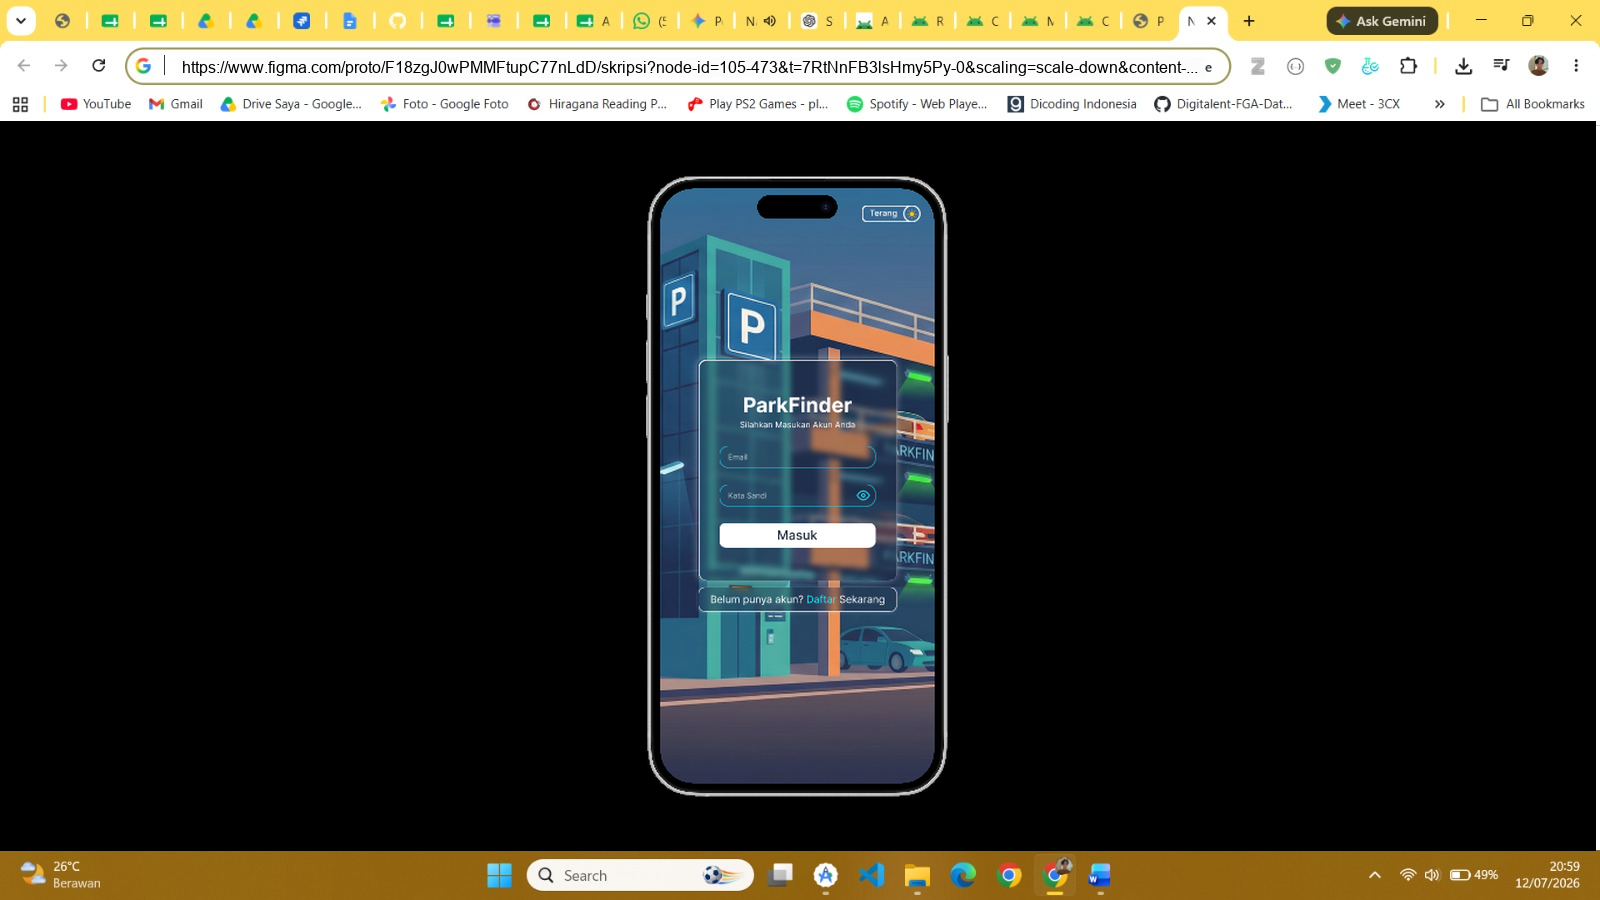
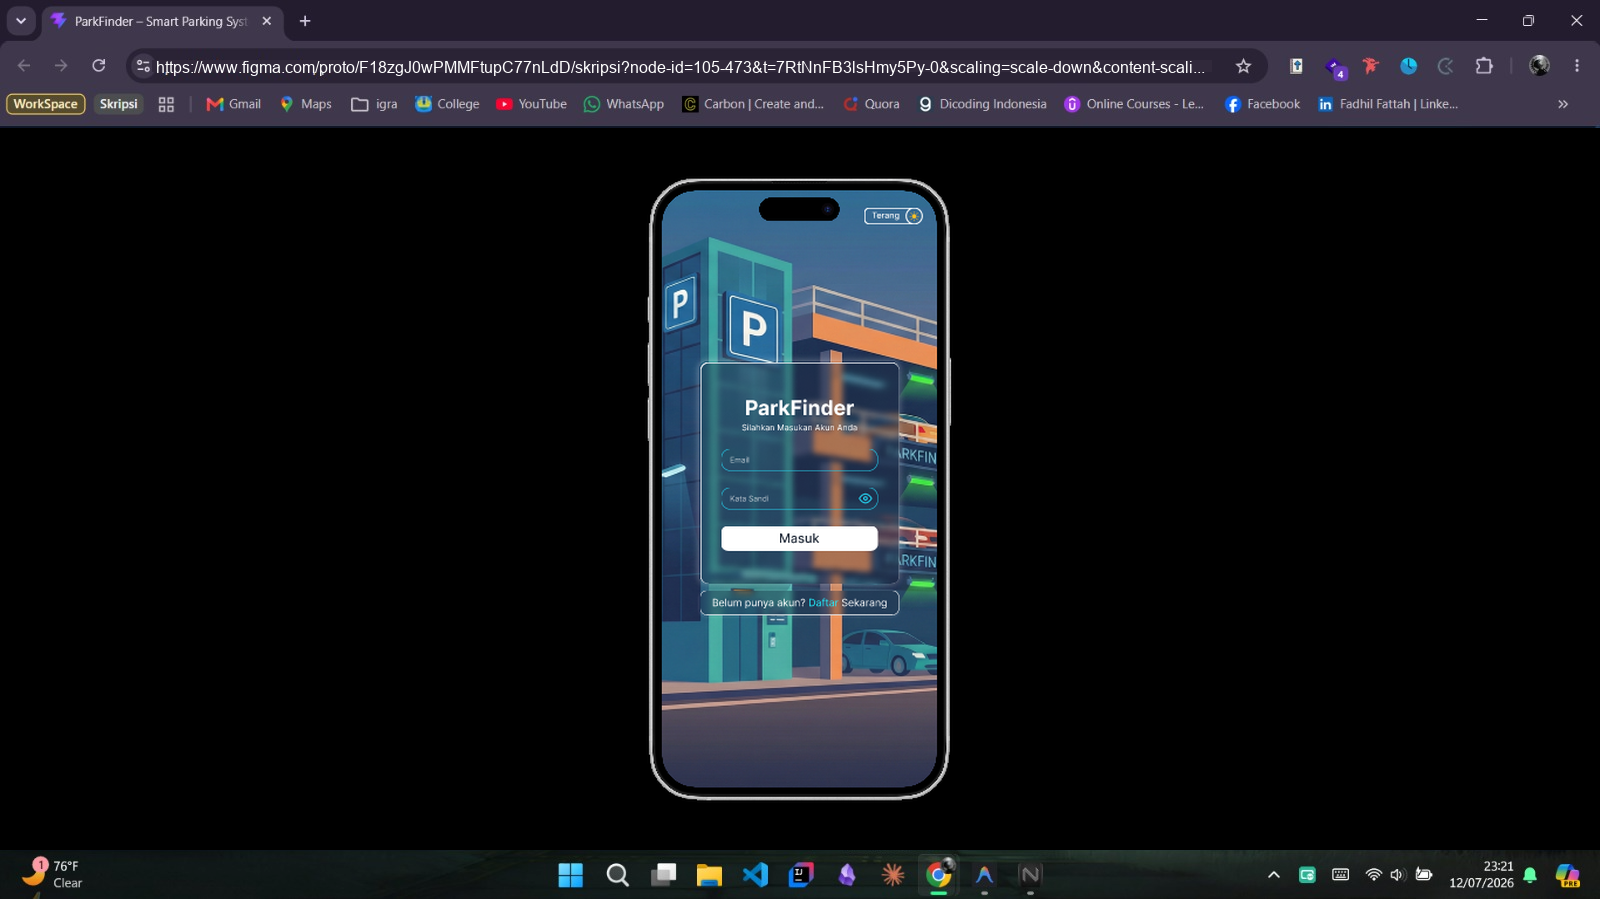
add title website

Changed region(s): [[0.0, 0.0, 1.0, 0.1557], [0.4062, 0.1869, 0.5938, 0.9032], [0.0, 0.9344, 1.0, 1.0]]

diff --git a/browser_frame/image_utils.py b/browser_frame/image_utils.py
@@ -124,6 +124,30 @@ def _contrast_text_color(background_hex: str) -> str:
     return "#000000" if luminance >= 160 else "#ffffff"
 
 
+def render_website_title_on_base(base: Image.Image, title: str) -> Image.Image:
+    if not title.strip():
+        return base.copy()
+    canvas = base.copy()
+    draw = ImageDraw.Draw(canvas)
+    title_region = Region(58, 2, 360, 32)
+    font = load_font(14)
+    text = title.strip()
+    bbox = draw.textbbox((0, 0), text, font=font)
+    text_width = bbox[2] - bbox[0]
+    text_height = bbox[3] - bbox[1]
+    max_width = max(1, title_region.width - 16)
+    text = truncate_text(text, font, max_width)
+    bbox = draw.textbbox((0, 0), text, font=font)
+    text_width = bbox[2] - bbox[0]
+    text_height = bbox[3] - bbox[1]
+    fill_color = _sample_address_bar_background(base, title_region)
+    draw.rectangle((title_region.x, title_region.y, title_region.x + title_region.width, title_region.y + title_region.height), fill=fill_color)
+    text_x = title_region.x + 6
+    text_y = title_region.y + max(0, (title_region.height - text_height) // 2 - 1)
+    draw.text((text_x, text_y), text, font=font, fill=_contrast_text_color(fill_color))
+    return canvas
+
+
 def render_url_on_base(base: Image.Image, address_bar: Region, url: str, text_settings: TextSettings) -> Image.Image:
     canvas = base.copy()
     draw = ImageDraw.Draw(canvas)
@@ -151,11 +175,13 @@ def composite_template(
     address_bar: Region,
     screenshot: Image.Image,
     url: str,
+    website_title: str,
     text_settings: TextSettings,
     contain_background: str,
     fit_mode: FitMode,
 ) -> Image.Image:
     base = template.copy().convert("RGBA")
+    base = render_website_title_on_base(base, website_title)
     fitted = fit_image(screenshot.convert("RGBA"), (viewport.width, viewport.height), fit_mode, contain_background)
     base.alpha_composite(fitted, (viewport.x, viewport.y))
     return render_url_on_base(base, address_bar, url, text_settings)

diff --git a/browser_frame/region_editor.py b/browser_frame/region_editor.py
@@ -51,6 +51,7 @@ class RegionEditorApp:
         self.zoom_var = StringVar(value="100%")
         self.template_info_var = StringVar(value="Template: none | Resolution: -")
         self.status_var = StringVar(value="Open a template to begin.")
+        self.website_title_var = StringVar(value=self.settings.website_title)
 
         self._build_ui()
         self._load_persisted_template_path()
@@ -129,6 +130,10 @@ class RegionEditorApp:
 
         actions = ttk.LabelFrame(sidebar, text="Actions")
         actions.pack(fill=X, padx=2, pady=6)
+        title_box = ttk.LabelFrame(sidebar, text="Website Title")
+        title_box.pack(fill=X, padx=2, pady=6)
+        ttk.Entry(title_box, textvariable=self.website_title_var).pack(fill=X, padx=8, pady=(8, 4))
+        ttk.Button(title_box, text="Apply Title", command=self.apply_title).pack(fill=X, padx=8, pady=(0, 8))
         ttk.Button(actions, text="Open Template", command=self.open_template_dialog).pack(fill=X, padx=8, pady=(8, 4))
         ttk.Button(actions, text="Preview Result", command=self.preview_result).pack(fill=X, padx=8, pady=4)
         ttk.Button(actions, text="Confirm Regions", command=self.confirm_regions).pack(fill=X, padx=8, pady=4)
@@ -145,10 +150,17 @@ class RegionEditorApp:
 
     def _load_persisted_template_path(self) -> None:
         profile = self.settings.profile(self.device)
+        self.website_title_var.set(self.settings.website_title)
         if profile.template_path and Path(profile.template_path).exists():
             self.load_template(Path(profile.template_path))
         elif self.template_path and self.template_path.exists():
             self.load_template(self.template_path)
+
+    def apply_title(self) -> None:
+        self.settings.website_title = self.website_title_var.get().strip()
+        self._persist_settings()
+        self.redraw()
+        self.status_var.set("Website title updated")
 
     def open_template_dialog(self) -> None:
         path = filedialog.askopenfilename(filetypes=[("PNG images", "*.png"), ("Image files", "*.png;*.jpg;*.jpeg;*.webp"), ("All files", "*.*")])
@@ -553,6 +565,7 @@ class RegionEditorApp:
     def _persist_settings(self) -> None:
         self.settings.profile(self.device).regions_confirmed = self.settings.regions_confirmed
         self.settings.active_device = self.device
+        self.settings.website_title = self.website_title_var.get().strip()
         save_settings(self.settings)
 
 

diff --git a/browser_frame/models.py b/browser_frame/models.py
@@ -106,6 +106,7 @@ class DeviceProfile:
 class Settings:
     active_device: DeviceKind = "desktop"
     regions_confirmed: bool = False
+    website_title: str = ""
     profiles: dict[str, DeviceProfile] = field(
         default_factory=lambda: {
             "desktop": DeviceProfile(),
@@ -147,6 +148,7 @@ class Settings:
         return {
             "active_device": self.active_device,
             "regions_confirmed": self.regions_confirmed,
+            "website_title": self.website_title,
             "profiles": {device: profile.to_dict() for device, profile in self.profiles.items()},
             "url_text": self.url_text.to_dict(),
             "contain_background": self.contain_background,
@@ -165,6 +167,7 @@ class Settings:
         return cls(
             active_device=cast(DeviceKind, active_device),
             regions_confirmed=bool(data.get("regions_confirmed", False)),
+            website_title=str(data.get("website_title", "")),
             profiles=profiles,
             url_text=TextSettings.from_dict(data.get("url_text")),
             contain_background=str(data.get("contain_background", "#FFFFFF")),
@@ -184,6 +187,7 @@ class BatchItem:
     url: str
     output: str
     fit: FitMode = "cover"
+    title: str | None = None
 
     @classmethod
     def from_dict(cls, data: dict[str, Any], base_dir: Path) -> "BatchItem":
@@ -195,4 +199,5 @@ class BatchItem:
             url=str(data["url"]),
             output=str(data["output"]),
             fit=cast(FitMode, fit),
+            title=str(data.get("title")) if data.get("title") is not None else None,
         )

diff --git a/browser_frame/generator.py b/browser_frame/generator.py
@@ -87,12 +87,14 @@ class BatchGenerator:
         screenshot = load_image(item.screenshot)
         if item.fit not in {"cover", "contain"}:
             raise ValueError(f"Format fit is not valid: {item.fit}")
+        website_title = item.title if item.title is not None else settings.website_title
         return composite_template(
             template=template,
             viewport=viewport,
             address_bar=address_bar,
             screenshot=screenshot,
             url=item.url,
+            website_title=website_title,
             text_settings=settings.url_text,
             contain_background=settings.contain_background,
             fit_mode=item.fit,

diff --git a/browser_frame/preview.py b/browser_frame/preview.py
@@ -28,6 +28,7 @@ def create_preview(template_path: Path, screenshot_path: Path, url: str, fit_mod
         address_bar=settings.address_bar,
         screenshot=screenshot,
         url=url,
+        website_title=settings.website_title,
         text_settings=settings.url_text,
         contain_background=settings.contain_background,
         fit_mode=fit_mode,